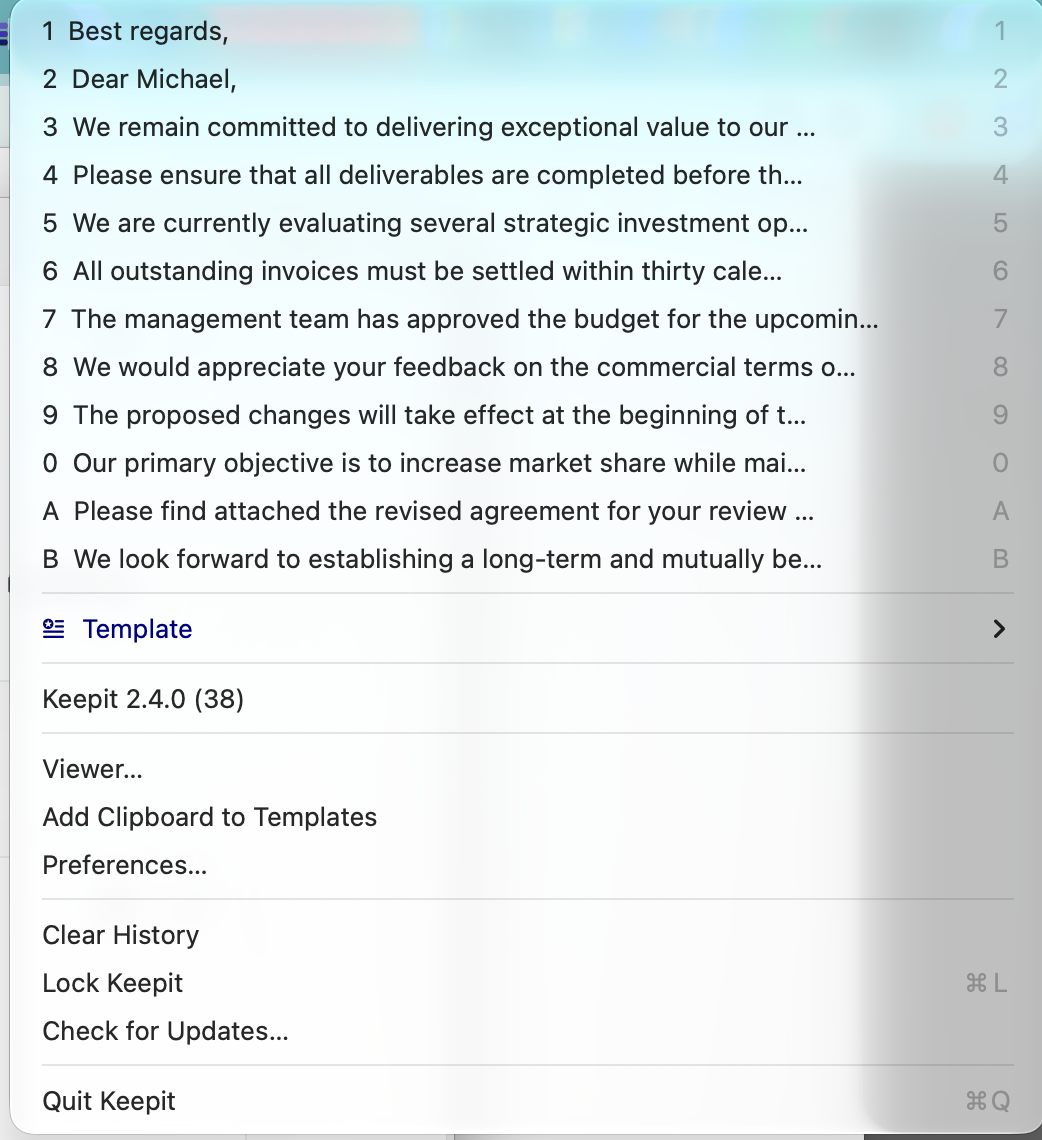
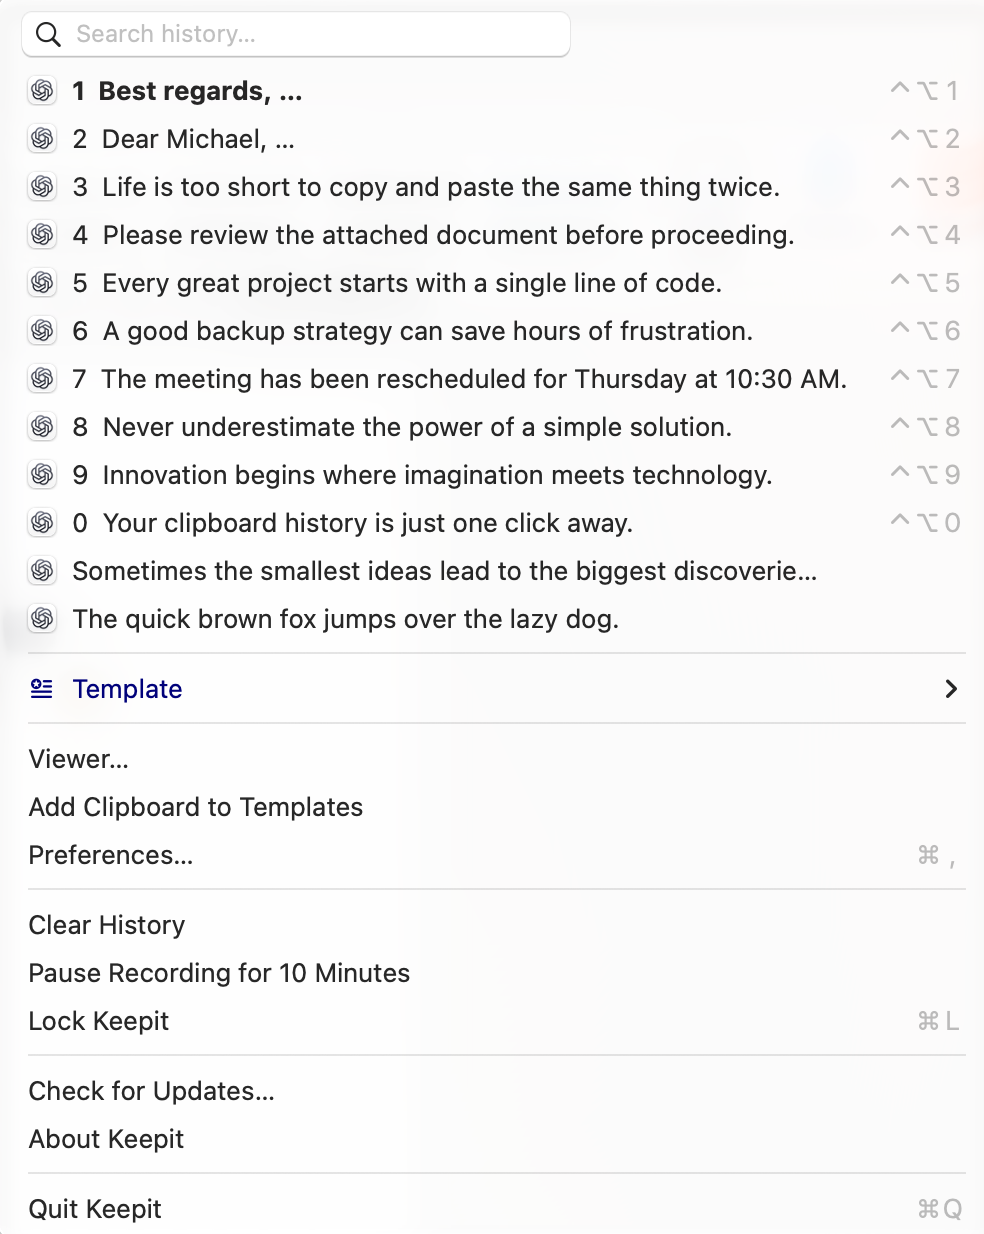
Site: 2.9.0 screenshots (menu, search + preview, Viewer, Security tab) and a new OG image
Claude-Session: https://claude.ai/code/session_018CvCqxSRbLMzpaocuVb3aG

diff --git a/docs/site/index.html b/docs/site/index.html
@@ -40,6 +40,7 @@
   .sub a { margin: 0 8px; }
   .shot { margin: 56px auto 0; max-width: 1000px; border-radius: 22px; padding: 56px 24px; background: radial-gradient(900px 500px at 20% 0%, #6F9BFF, #3D5FE0 55%, #22399F); box-shadow: 0 40px 100px rgba(47,79,209,.35); }
   .shot img { display: block; width: 100%; max-width: 560px; margin: 0 auto; height: auto; border-radius: 14px; box-shadow: 0 30px 70px rgba(0,0,0,.4); }
+  .wide { display: block; width: 100%; max-width: 1000px; margin: 40px auto 0; border-radius: 16px; box-shadow: 0 24px 60px rgba(0,0,0,.18); }
   section { padding: 72px 0; }
   section h2 { font-size: clamp(28px, 4vw, 40px); letter-spacing: -.5px; margin: 0 0 12px; }
   section .intro { color: var(--muted); font-size: 19px; max-width: 720px; margin-bottom: 36px; }
@@ -103,6 +104,7 @@
       <div class="card"><h3>Menu bar app</h3><p>No Dock icon, no windows unless you ask. Launches at login. Per-app paste key overrides for the apps that need them.</p></div>
       <div class="card"><h3>Updates itself</h3><p>Signed and notarized by Apple. Checks GitHub Releases once a day and installs updates in one click.</p></div>
     </div>
+    <img class="wide" src="img/search-preview.png" alt="Searching the history menu with a preview of the highlighted item">
   </div></section>
 
   <section><div class="wrap split">
